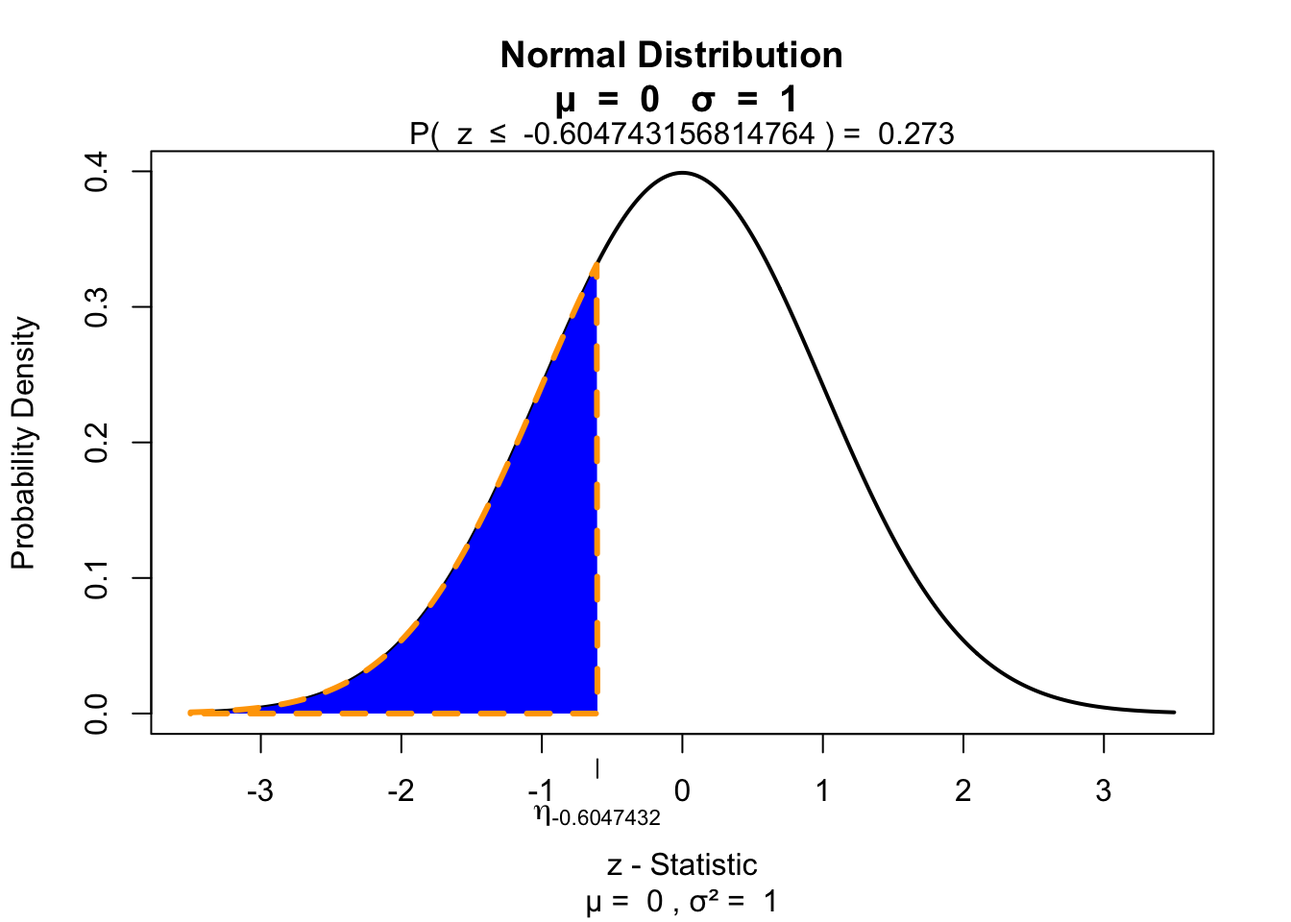
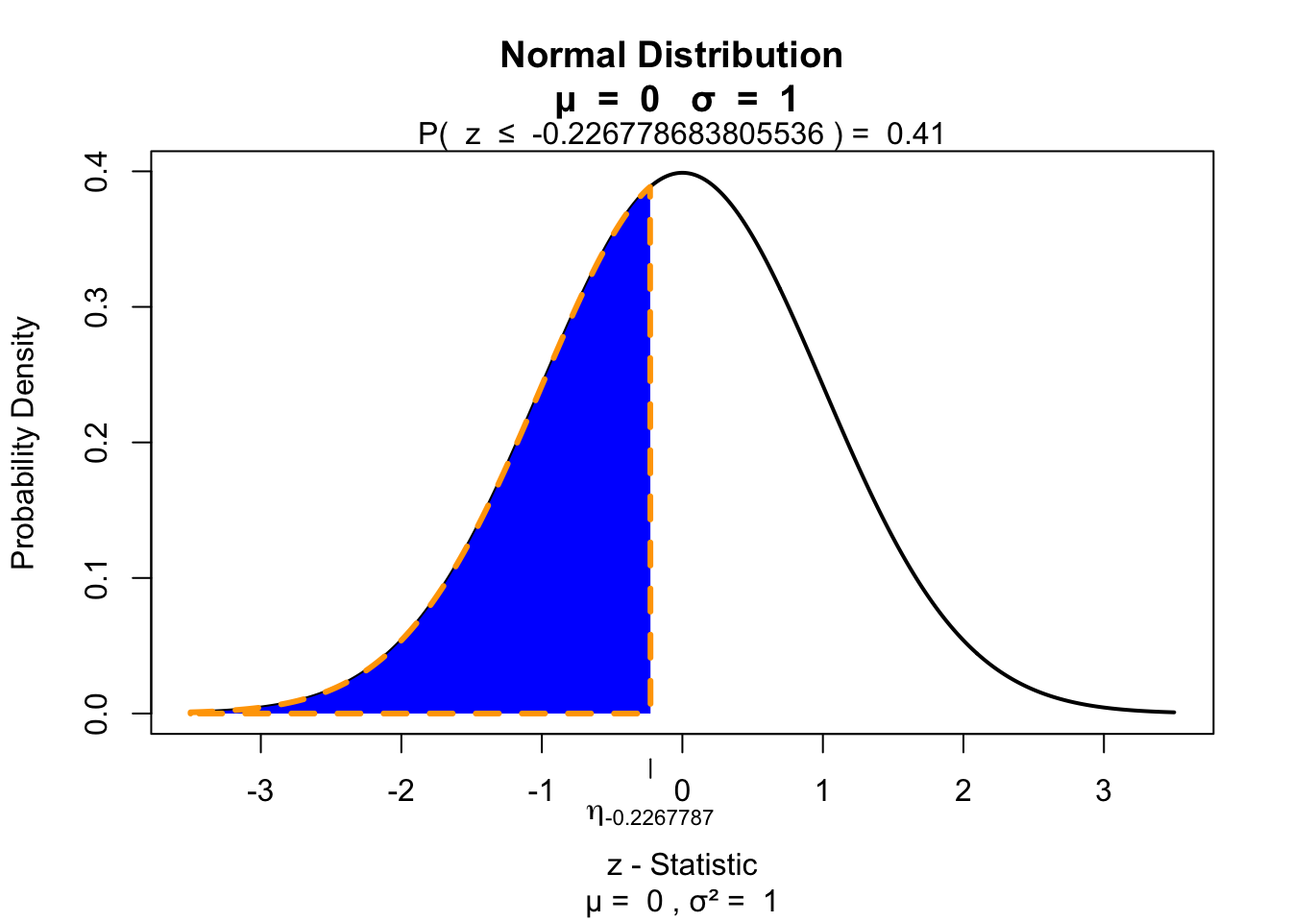
date corrected

Changed region(s): [[0.4375, 0.1875, 0.5312, 0.7812], [0.3125, 0.125, 0.75, 0.1562], [0.4062, 0.875, 0.5625, 0.9062]]

diff --git a/courses/2020-2021_SSR/non_parametric_tests/non_parametric_tests_reveal.html b/courses/2020-2021_SSR/non_parametric_tests/non_parametric_tests_reveal.html
@@ -580,7 +580,7 @@ document.getElementsByTagName('head')[0].appendChild(style);
 <section>
     <h1 class="title">Non-parametric tests</h1>
     <h2 class="author">Klinkenberg</h2>
-    <h3 class="date">3 oct 2019</h3>
+    <h3 class="date">3 oct 2020</h3>
 </section>
 
 <section id="inhoud" class="slide level2">
@@ -699,8 +699,8 @@ background: linear-gradient(top, #FFA500 40%, #FFA500 80%) no-repeat !important;
 <span id="cb6-13"><a href="#cb6-13"></a>data<span class="op">$</span>R &lt;-<span class="st"> </span><span class="kw">rank</span>(data<span class="op">$</span>depres)</span></code></pre></div>
 </section><section id="example" class="slide level2">
 <h2>Example</h2>
-<div id="htmlwidget-6f3703a33933e4c06ee4" style="width:100%;height:auto;" class="datatables html-widget"></div>
-<script type="application/json" data-for="htmlwidget-6f3703a33933e4c06ee4">{"x":{"filter":"none","data":[["1","2","3","4","5","6","7","8","9","10","11","12","13","14","15","16","17","18","19","20"],["Ecstasy","Ecstasy","Ecstasy","Ecstasy","Ecstasy","Ecstasy","Ecstasy","Ecstasy","Ecstasy","Ecstasy","Alcohol","Alcohol","Alcohol","Alcohol","Alcohol","Alcohol","Alcohol","Alcohol","Alcohol","Alcohol"],[27,29,27,27,30,26,29,31,28,28,28,26,29,29,27,28,32,27,26,29],[6,15,6,6,18,2,15,19,10.5,10.5,10.5,2,15,15,6,10.5,20,6,2,15]],"container":"<table class=\"display\">\n  <thead>\n    <tr>\n      <th> <\/th>\n      <th>factor<\/th>\n      <th>depres<\/th>\n      <th>R<\/th>\n    <\/tr>\n  <\/thead>\n<\/table>","options":{"searching":false,"scrollY":415,"paging":false,"info":false,"columnDefs":[{"className":"dt-right","targets":[2,3]},{"orderable":false,"targets":0}],"order":[],"autoWidth":false,"orderClasses":false}},"evals":[],"jsHooks":[]}</script>
+<div id="htmlwidget-239354e533d7a12e53f1" style="width:100%;height:auto;" class="datatables html-widget"></div>
+<script type="application/json" data-for="htmlwidget-239354e533d7a12e53f1">{"x":{"filter":"none","data":[["1","2","3","4","5","6","7","8","9","10","11","12","13","14","15","16","17","18","19","20"],["Ecstasy","Ecstasy","Ecstasy","Ecstasy","Ecstasy","Ecstasy","Ecstasy","Ecstasy","Ecstasy","Ecstasy","Alcohol","Alcohol","Alcohol","Alcohol","Alcohol","Alcohol","Alcohol","Alcohol","Alcohol","Alcohol"],[27,29,27,27,30,26,29,31,28,28,28,26,29,29,27,28,32,27,26,29],[6,15,6,6,18,2,15,19,10.5,10.5,10.5,2,15,15,6,10.5,20,6,2,15]],"container":"<table class=\"display\">\n  <thead>\n    <tr>\n      <th> <\/th>\n      <th>factor<\/th>\n      <th>depres<\/th>\n      <th>R<\/th>\n    <\/tr>\n  <\/thead>\n<\/table>","options":{"searching":false,"scrollY":415,"paging":false,"info":false,"columnDefs":[{"className":"dt-right","targets":[2,3]},{"orderable":false,"targets":0}],"order":[],"autoWidth":false,"orderClasses":false}},"evals":[],"jsHooks":[]}</script>
 </section><section id="calculate-the-sum-of-ranks-per-group" class="slide level2 subsection">
 <h2>Calculate the sum of ranks per group</h2>
 <div class="sourceCode" id="cb7"><pre class="sourceCode r"><code class="sourceCode r"><span id="cb7-1"><a href="#cb7-1"></a>R &lt;-<span class="st"> </span><span class="kw">aggregate</span>(R <span class="op">~</span><span class="st"> </span>factor, data, sum)</span>
@@ -806,8 +806,8 @@ background: linear-gradient(top, #FFA500 40%, #FFA500 80%) no-repeat !important;
 <span id="cb29-15"><a href="#cb29-15"></a>data &lt;-<span class="st"> </span><span class="kw">data.frame</span>(Ecstasy, Alcohol)</span></code></pre></div>
 </section><section id="example-1" class="slide level2">
 <h2>Example</h2>
-<div id="htmlwidget-5554785aca792b730a85" style="width:100%;height:auto;" class="datatables html-widget"></div>
-<script type="application/json" data-for="htmlwidget-5554785aca792b730a85">{"x":{"filter":"none","data":[["1","2","3","4","5","6","7","8","9","10"],[29,25,28,27,29,28,28,29,29,28],[28,28,27,27,28,28,26,27,30,28]],"container":"<table class=\"display\">\n  <thead>\n    <tr>\n      <th> <\/th>\n      <th>Ecstasy<\/th>\n      <th>Alcohol<\/th>\n    <\/tr>\n  <\/thead>\n<\/table>","options":{"iDisplayLength":7,"searching":false,"scrollY":415,"paging":false,"info":false,"columnDefs":[{"className":"dt-right","targets":[1,2]},{"orderable":false,"targets":0}],"order":[],"autoWidth":false,"orderClasses":false}},"evals":[],"jsHooks":[]}</script>
+<div id="htmlwidget-425321f9794e9da98c7b" style="width:100%;height:auto;" class="datatables html-widget"></div>
+<script type="application/json" data-for="htmlwidget-425321f9794e9da98c7b">{"x":{"filter":"none","data":[["1","2","3","4","5","6","7","8","9","10"],[29,25,28,27,29,28,28,29,29,28],[28,28,27,27,28,28,26,27,30,28]],"container":"<table class=\"display\">\n  <thead>\n    <tr>\n      <th> <\/th>\n      <th>Ecstasy<\/th>\n      <th>Alcohol<\/th>\n    <\/tr>\n  <\/thead>\n<\/table>","options":{"iDisplayLength":7,"searching":false,"scrollY":415,"paging":false,"info":false,"columnDefs":[{"className":"dt-right","targets":[1,2]},{"orderable":false,"targets":0}],"order":[],"autoWidth":false,"orderClasses":false}},"evals":[],"jsHooks":[]}</script>
 </section><section id="calculate-t" class="slide level2 smaller subsection">
 <h2>Calculate T</h2>
 <!-- Dit gaat niet goed Ranking moet zonder de ties en absoluut. 
@@ -843,8 +843,8 @@ data[which(data$difference != 0),'rank'] <- rank(data[which(data$difference != 0
 <span id="cb30-19"><a href="#cb30-19"></a>data<span class="op">$</span>rank_neg =<span class="st"> </span><span class="kw">with</span>(data, <span class="kw">ifelse</span>(sign <span class="op">==</span><span class="st"> </span><span class="dv">-1</span>, rank, <span class="dv">0</span>   ))</span></code></pre></div>
 </section><section id="the-data" class="slide level2 smaller">
 <h2>The data</h2>
-<div id="htmlwidget-2f633885d3e735e0670a" style="width:100%;height:auto;" class="datatables html-widget"></div>
-<script type="application/json" data-for="htmlwidget-2f633885d3e735e0670a">{"x":{"filter":"none","data":[["1","2","3","4","5","6","7","8","9","10"],[29,25,28,27,29,28,28,29,29,28],[28,28,27,27,28,28,26,27,30,28],[1,-3,1,0,1,0,2,2,-1,0],[1,3,1,0,1,0,2,2,1,0],[2.5,7,2.5,null,2.5,null,5.5,5.5,2.5,null],[1,-1,1,0,1,0,1,1,-1,0],[2.5,0,2.5,0,2.5,0,5.5,5.5,0,0],[0,7,0,0,0,0,0,0,2.5,0]],"container":"<table class=\"display\">\n  <thead>\n    <tr>\n      <th> <\/th>\n      <th>Ecstasy<\/th>\n      <th>Alcohol<\/th>\n      <th>difference<\/th>\n      <th>abs.difference<\/th>\n      <th>rank<\/th>\n      <th>sign<\/th>\n      <th>rank_pos<\/th>\n      <th>rank_neg<\/th>\n    <\/tr>\n  <\/thead>\n<\/table>","options":{"iDisplayLength":7,"searching":false,"scrollY":415,"paging":false,"info":false,"columnDefs":[{"className":"dt-right","targets":[1,2,3,4,5,6,7,8]},{"orderable":false,"targets":0}],"order":[],"autoWidth":false,"orderClasses":false}},"evals":[],"jsHooks":[]}</script>
+<div id="htmlwidget-cf6aa36f1d6e5c5b0cf2" style="width:100%;height:auto;" class="datatables html-widget"></div>
+<script type="application/json" data-for="htmlwidget-cf6aa36f1d6e5c5b0cf2">{"x":{"filter":"none","data":[["1","2","3","4","5","6","7","8","9","10"],[29,25,28,27,29,28,28,29,29,28],[28,28,27,27,28,28,26,27,30,28],[1,-3,1,0,1,0,2,2,-1,0],[1,3,1,0,1,0,2,2,1,0],[2.5,7,2.5,null,2.5,null,5.5,5.5,2.5,null],[1,-1,1,0,1,0,1,1,-1,0],[2.5,0,2.5,0,2.5,0,5.5,5.5,0,0],[0,7,0,0,0,0,0,0,2.5,0]],"container":"<table class=\"display\">\n  <thead>\n    <tr>\n      <th> <\/th>\n      <th>Ecstasy<\/th>\n      <th>Alcohol<\/th>\n      <th>difference<\/th>\n      <th>abs.difference<\/th>\n      <th>rank<\/th>\n      <th>sign<\/th>\n      <th>rank_pos<\/th>\n      <th>rank_neg<\/th>\n    <\/tr>\n  <\/thead>\n<\/table>","options":{"iDisplayLength":7,"searching":false,"scrollY":415,"paging":false,"info":false,"columnDefs":[{"className":"dt-right","targets":[1,2,3,4,5,6,7,8]},{"orderable":false,"targets":0}],"order":[],"autoWidth":false,"orderClasses":false}},"evals":[],"jsHooks":[]}</script>
 </section><section id="calculate-t_" class="slide level2">
 <h2>Calculate <span class="math inline">\(T_+\)</span></h2>
 <div class="sourceCode" id="cb31"><pre class="sourceCode r"><code class="sourceCode r"><span id="cb31-1"><a href="#cb31-1"></a><span class="co"># Calculate the sum of the positive ranks</span></span>
@@ -912,8 +912,8 @@ data[which(data$difference != 0),'rank'] <- rank(data[which(data$difference != 0
 <span id="cb44-2"><a href="#cb44-2"></a>data<span class="op">$</span>ranks =<span class="st"> </span><span class="kw">rank</span>(data<span class="op">$</span>depres)</span></code></pre></div>
 </section><section id="the-data-1" class="slide level2">
 <h2>The data</h2>
-<div id="htmlwidget-ca35d45450ff08359172" style="width:100%;height:auto;" class="datatables html-widget"></div>
-<script type="application/json" data-for="htmlwidget-ca35d45450ff08359172">{"x":{"filter":"none","data":[["1","2","3","4","5","6","7","8","9","10","11","12","13","14","15","16","17","18","19","20","21","22","23","24","25","26","27","28","29","30"],["ecstasy","ecstasy","ecstasy","ecstasy","ecstasy","ecstasy","ecstasy","ecstasy","ecstasy","ecstasy","alcohol","alcohol","alcohol","alcohol","alcohol","alcohol","alcohol","alcohol","alcohol","alcohol","control","control","control","control","control","control","control","control","control","control"],[22,22,24,25,21,24,21,23,21,23,27,23,24,24,21,26,23,24,23,24,23,22,21,22,22,25,22,22,22,23],[9.5,9.5,23.5,27.5,3,23.5,3,17,3,17,30,17,23.5,23.5,3,29,17,23.5,17,23.5,17,9.5,3,9.5,9.5,27.5,9.5,9.5,9.5,17]],"container":"<table class=\"display\">\n  <thead>\n    <tr>\n      <th> <\/th>\n      <th>factor<\/th>\n      <th>depres<\/th>\n      <th>ranks<\/th>\n    <\/tr>\n  <\/thead>\n<\/table>","options":{"iDisplayLength":7,"searching":false,"scrollY":415,"paging":false,"info":false,"columnDefs":[{"className":"dt-right","targets":[2,3]},{"orderable":false,"targets":0}],"order":[],"autoWidth":false,"orderClasses":false}},"evals":[],"jsHooks":[]}</script>
+<div id="htmlwidget-2f06513c00f9c344bd6d" style="width:100%;height:auto;" class="datatables html-widget"></div>
+<script type="application/json" data-for="htmlwidget-2f06513c00f9c344bd6d">{"x":{"filter":"none","data":[["1","2","3","4","5","6","7","8","9","10","11","12","13","14","15","16","17","18","19","20","21","22","23","24","25","26","27","28","29","30"],["ecstasy","ecstasy","ecstasy","ecstasy","ecstasy","ecstasy","ecstasy","ecstasy","ecstasy","ecstasy","alcohol","alcohol","alcohol","alcohol","alcohol","alcohol","alcohol","alcohol","alcohol","alcohol","control","control","control","control","control","control","control","control","control","control"],[22,22,24,25,21,24,21,23,21,23,27,23,24,24,21,26,23,24,23,24,23,22,21,22,22,25,22,22,22,23],[9.5,9.5,23.5,27.5,3,23.5,3,17,3,17,30,17,23.5,23.5,3,29,17,23.5,17,23.5,17,9.5,3,9.5,9.5,27.5,9.5,9.5,9.5,17]],"container":"<table class=\"display\">\n  <thead>\n    <tr>\n      <th> <\/th>\n      <th>factor<\/th>\n      <th>depres<\/th>\n      <th>ranks<\/th>\n    <\/tr>\n  <\/thead>\n<\/table>","options":{"iDisplayLength":7,"searching":false,"scrollY":415,"paging":false,"info":false,"columnDefs":[{"className":"dt-right","targets":[2,3]},{"orderable":false,"targets":0}],"order":[],"autoWidth":false,"orderClasses":false}},"evals":[],"jsHooks":[]}</script>
 </section><section id="calculate-h" class="slide level2 subsection">
 <h2>Calculate H</h2>
 <p><span class="math display">\[H = \frac{12}{N(N+1)} \sum_{i=1}^k \frac{R_i^2}{n_i} - 3(N+1)\]</span></p>
@@ -983,8 +983,8 @@ data[which(data$difference != 0),'rank'] <- rank(data[which(data$difference != 0
 <span id="cb54-5"><a href="#cb54-5"></a>data &lt;-<span class="st"> </span><span class="kw">data.frame</span>(ecstasy, alcohol, control)</span></code></pre></div>
 </section><section id="the-data-2" class="slide level2">
 <h2>The data</h2>
-<div id="htmlwidget-1eeb47d605788ab2f9e4" style="width:100%;height:auto;" class="datatables html-widget"></div>
-<script type="application/json" data-for="htmlwidget-1eeb47d605788ab2f9e4">{"x":{"filter":"none","data":[["1","2","3","4","5","6","7","8","9","10"],[23,24,27,27,25,21,22,21,23,24],[22,24,24,21,25,22,22,25,24,24],[24,27,25,21,21,23,24,21,23,21]],"container":"<table class=\"display\">\n  <thead>\n    <tr>\n      <th> <\/th>\n      <th>ecstasy<\/th>\n      <th>alcohol<\/th>\n      <th>control<\/th>\n    <\/tr>\n  <\/thead>\n<\/table>","options":{"iDisplayLength":7,"searching":false,"scrollY":415,"paging":false,"info":false,"columnDefs":[{"className":"dt-right","targets":[1,2,3]},{"orderable":false,"targets":0}],"order":[],"autoWidth":false,"orderClasses":false}},"evals":[],"jsHooks":[]}</script>
+<div id="htmlwidget-752361be19e012d0728c" style="width:100%;height:auto;" class="datatables html-widget"></div>
+<script type="application/json" data-for="htmlwidget-752361be19e012d0728c">{"x":{"filter":"none","data":[["1","2","3","4","5","6","7","8","9","10"],[23,24,27,27,25,21,22,21,23,24],[22,24,24,21,25,22,22,25,24,24],[24,27,25,21,21,23,24,21,23,21]],"container":"<table class=\"display\">\n  <thead>\n    <tr>\n      <th> <\/th>\n      <th>ecstasy<\/th>\n      <th>alcohol<\/th>\n      <th>control<\/th>\n    <\/tr>\n  <\/thead>\n<\/table>","options":{"iDisplayLength":7,"searching":false,"scrollY":415,"paging":false,"info":false,"columnDefs":[{"className":"dt-right","targets":[1,2,3]},{"orderable":false,"targets":0}],"order":[],"autoWidth":false,"orderClasses":false}},"evals":[],"jsHooks":[]}</script>
 </section><section id="assign-ranks-1" class="slide level2">
 <h2>Assign ranks</h2>
 <p>Rank each row.</p>
@@ -992,8 +992,8 @@ data[which(data$difference != 0),'rank'] <- rank(data[which(data$difference != 0
 <span id="cb55-2"><a href="#cb55-2"></a>ranks =<span class="st"> </span><span class="kw">t</span>(<span class="kw">apply</span>(data, <span class="dv">1</span>, rank))</span></code></pre></div>
 </section><section id="the-data-with-ranks" class="slide level2">
 <h2>The data with ranks</h2>
-<div id="htmlwidget-180126f91fe9273a55a2" style="width:100%;height:auto;" class="datatables html-widget"></div>
-<script type="application/json" data-for="htmlwidget-180126f91fe9273a55a2">{"x":{"filter":"none","data":[[2,1.5,3,3,2.5,1,1.5,1.5,1.5,2.5],[1,1.5,1,1.5,2.5,2,1.5,3,3,2.5],[3,3,2,1.5,1,3,3,1.5,1.5,1]],"container":"<table class=\"display\">\n  <thead>\n    <tr>\n      <th>ecstasy<\/th>\n      <th>alcohol<\/th>\n      <th>control<\/th>\n    <\/tr>\n  <\/thead>\n<\/table>","options":{"iDisplayLength":7,"searching":false,"scrollY":415,"paging":false,"info":false,"columnDefs":[{"className":"dt-right","targets":[0,1,2]}],"order":[],"autoWidth":false,"orderClasses":false}},"evals":[],"jsHooks":[]}</script>
+<div id="htmlwidget-31a6e34655485fe73360" style="width:100%;height:auto;" class="datatables html-widget"></div>
+<script type="application/json" data-for="htmlwidget-31a6e34655485fe73360">{"x":{"filter":"none","data":[[2,1.5,3,3,2.5,1,1.5,1.5,1.5,2.5],[1,1.5,1,1.5,2.5,2,1.5,3,3,2.5],[3,3,2,1.5,1,3,3,1.5,1.5,1]],"container":"<table class=\"display\">\n  <thead>\n    <tr>\n      <th>ecstasy<\/th>\n      <th>alcohol<\/th>\n      <th>control<\/th>\n    <\/tr>\n  <\/thead>\n<\/table>","options":{"iDisplayLength":7,"searching":false,"scrollY":415,"paging":false,"info":false,"columnDefs":[{"className":"dt-right","targets":[0,1,2]}],"order":[],"autoWidth":false,"orderClasses":false}},"evals":[],"jsHooks":[]}</script>
 </section><section id="calculate-f_r" class="slide level2 subsection">
 <h2>Calculate <span class="math inline">\(F_r\)</span></h2>
 <p><span class="math display">\[F_r = \left[ \frac{12}{Nk(k+1)} \sum_{i=1}^k R_i^2 \right] - 3N(k+1)\]</span></p>

diff --git a/courses/2020-2021_SSR/non_parametric_tests/non_parametric_tests_handout.html b/courses/2020-2021_SSR/non_parametric_tests/non_parametric_tests_handout.html
@@ -278,7 +278,7 @@ div.tocify {
 
 <h1 class="title toc-ignore">Non-parametric tests</h1>
 <h4 class="author">Klinkenberg</h4>
-<h4 class="date">3 oct 2019</h4>
+<h4 class="date">3 oct 2020</h4>
 
 </div>
 
@@ -409,23 +409,23 @@ data$R &lt;- rank(data$depres)</code></pre>
 </div>
 <div id="example" class="section level2">
 <h2>Example</h2>
-<div id="htmlwidget-8005903bccb5d981dfae" style="width:100%;height:auto;" class="datatables html-widget"></div>
-<script type="application/json" data-for="htmlwidget-8005903bccb5d981dfae">{"x":{"filter":"none","data":[["1","2","3","4","5","6","7","8","9","10","11","12","13","14","15","16","17","18","19","20"],["Ecstasy","Ecstasy","Ecstasy","Ecstasy","Ecstasy","Ecstasy","Ecstasy","Ecstasy","Ecstasy","Ecstasy","Alcohol","Alcohol","Alcohol","Alcohol","Alcohol","Alcohol","Alcohol","Alcohol","Alcohol","Alcohol"],[27,31,29,27,24,30,28,28,30,29,29,30,29,28,25,29,28,28,25,27],[5,20,14,5,1,18,9,9,18,14,14,18,14,9,2.5,14,9,9,2.5,5]],"container":"<table class=\"display\">\n  <thead>\n    <tr>\n      <th> <\/th>\n      <th>factor<\/th>\n      <th>depres<\/th>\n      <th>R<\/th>\n    <\/tr>\n  <\/thead>\n<\/table>","options":{"searching":false,"scrollY":415,"paging":false,"info":false,"columnDefs":[{"className":"dt-right","targets":[2,3]},{"orderable":false,"targets":0}],"order":[],"autoWidth":false,"orderClasses":false}},"evals":[],"jsHooks":[]}</script>
+<div id="htmlwidget-0accf281e7c58e36b528" style="width:100%;height:auto;" class="datatables html-widget"></div>
+<script type="application/json" data-for="htmlwidget-0accf281e7c58e36b528">{"x":{"filter":"none","data":[["1","2","3","4","5","6","7","8","9","10","11","12","13","14","15","16","17","18","19","20"],["Ecstasy","Ecstasy","Ecstasy","Ecstasy","Ecstasy","Ecstasy","Ecstasy","Ecstasy","Ecstasy","Ecstasy","Alcohol","Alcohol","Alcohol","Alcohol","Alcohol","Alcohol","Alcohol","Alcohol","Alcohol","Alcohol"],[27,29,27,27,30,26,29,31,28,28,28,26,29,29,27,28,32,27,26,29],[6,15,6,6,18,2,15,19,10.5,10.5,10.5,2,15,15,6,10.5,20,6,2,15]],"container":"<table class=\"display\">\n  <thead>\n    <tr>\n      <th> <\/th>\n      <th>factor<\/th>\n      <th>depres<\/th>\n      <th>R<\/th>\n    <\/tr>\n  <\/thead>\n<\/table>","options":{"searching":false,"scrollY":415,"paging":false,"info":false,"columnDefs":[{"className":"dt-right","targets":[2,3]},{"orderable":false,"targets":0}],"order":[],"autoWidth":false,"orderClasses":false}},"evals":[],"jsHooks":[]}</script>
 </div>
 <div id="calculate-the-sum-of-ranks-per-group" class="section level2 subsection">
 <h2>Calculate the sum of ranks per group</h2>
 <pre class="r"><code>R &lt;- aggregate(R ~ factor, data, sum)
 R</code></pre>
 <pre><code>##    factor   R
-## 1 Alcohol  97
-## 2 Ecstasy 113</code></pre>
+## 1 Alcohol 102
+## 2 Ecstasy 108</code></pre>
 </div>
 <div id="so-w-is-the-lowest" class="section level2">
 <h2>So W is the lowest</h2>
 <p><span class="math display">\[W=min\left(\sum{R_1},\sum{R_2}\right)\]</span></p>
 <pre class="r"><code>W &lt;- min(R$R)
 W</code></pre>
-<pre><code>## [1] 97</code></pre>
+<pre><code>## [1] 102</code></pre>
 </div>
 <div id="standardise-w" class="section level2">
 <h2>Standardise W</h2>
@@ -461,7 +461,7 @@ W.se</code></pre>
 <p><span class="math display">\[\frac{X - \bar{X}}{{SE}_X} \text{or} \frac{b - \mu_{b}}{{SE}_b} \]</span></p>
 <pre class="r"><code>z = (W - W.mean) / W.se
 z</code></pre>
-<pre><code>## [1] -0.6047432</code></pre>
+<pre><code>## [1] -0.2267787</code></pre>
 </div>
 <div id="test-for-significance-1-sided" class="section level2">
 <h2>Test for significance 1 sided</h2>
@@ -484,14 +484,14 @@ visualize.norm(z, section=&quot;lower&quot;)</code></pre>
 <pre class="r"><code>N = sum(n$R)
 r = z / sqrt(N)
 r</code></pre>
-<pre><code>## [1] -0.1352247</code></pre>
+<pre><code>## [1] -0.05070926</code></pre>
 </div>
 <div id="mannwhitney-test" class="section level2 section">
 <h2>Mann–Whitney test</h2>
 <p><span class="math display">\[U = n_1 n_2 + \frac{n_1 (n_1 + 1)}{2} - R_1\]</span></p>
 <pre class="r"><code>U = (n.1*n.2)+(n.1*(n.1+1))/2-R$R[1]
 U</code></pre>
-<pre><code>## [1] 58</code></pre>
+<pre><code>## [1] 53</code></pre>
 </div>
 <div id="baru-and-se_u-for-non-tied-ranks" class="section level2 subsection">
 <h2><span class="math inline">\(\bar{U}\)</span> and <span class="math inline">\({SE}_U\)</span> for non tied ranks</h2>
@@ -531,8 +531,8 @@ data &lt;- data.frame(Ecstasy, Alcohol)</code></pre>
 </div>
 <div id="example-1" class="section level2">
 <h2>Example</h2>
-<div id="htmlwidget-632b04d6a572535b9b8b" style="width:100%;height:auto;" class="datatables html-widget"></div>
-<script type="application/json" data-for="htmlwidget-632b04d6a572535b9b8b">{"x":{"filter":"none","data":[["1","2","3","4","5","6","7","8","9","10"],[29,25,28,27,29,28,28,29,29,28],[28,28,27,27,28,28,26,27,30,28]],"container":"<table class=\"display\">\n  <thead>\n    <tr>\n      <th> <\/th>\n      <th>Ecstasy<\/th>\n      <th>Alcohol<\/th>\n    <\/tr>\n  <\/thead>\n<\/table>","options":{"iDisplayLength":7,"searching":false,"scrollY":415,"paging":false,"info":false,"columnDefs":[{"className":"dt-right","targets":[1,2]},{"orderable":false,"targets":0}],"order":[],"autoWidth":false,"orderClasses":false}},"evals":[],"jsHooks":[]}</script>
+<div id="htmlwidget-3c5b3bfd400188b044da" style="width:100%;height:auto;" class="datatables html-widget"></div>
+<script type="application/json" data-for="htmlwidget-3c5b3bfd400188b044da">{"x":{"filter":"none","data":[["1","2","3","4","5","6","7","8","9","10"],[29,25,28,27,29,28,28,29,29,28],[28,28,27,27,28,28,26,27,30,28]],"container":"<table class=\"display\">\n  <thead>\n    <tr>\n      <th> <\/th>\n      <th>Ecstasy<\/th>\n      <th>Alcohol<\/th>\n    <\/tr>\n  <\/thead>\n<\/table>","options":{"iDisplayLength":7,"searching":false,"scrollY":415,"paging":false,"info":false,"columnDefs":[{"className":"dt-right","targets":[1,2]},{"orderable":false,"targets":0}],"order":[],"autoWidth":false,"orderClasses":false}},"evals":[],"jsHooks":[]}</script>
 </div>
 <div id="calculate-t" class="section level2 smaller subsection">
 <h2>Calculate T</h2>
@@ -570,8 +570,8 @@ data$rank_neg = with(data, ifelse(sign == -1, rank, 0   ))</code></pre>
 </div>
 <div id="the-data" class="section level2 smaller">
 <h2>The data</h2>
-<div id="htmlwidget-62032e7fed994c82ed0e" style="width:100%;height:auto;" class="datatables html-widget"></div>
-<script type="application/json" data-for="htmlwidget-62032e7fed994c82ed0e">{"x":{"filter":"none","data":[["1","2","3","4","5","6","7","8","9","10"],[29,25,28,27,29,28,28,29,29,28],[28,28,27,27,28,28,26,27,30,28],[1,-3,1,0,1,0,2,2,-1,0],[1,3,1,0,1,0,2,2,1,0],[2.5,7,2.5,null,2.5,null,5.5,5.5,2.5,null],[1,-1,1,0,1,0,1,1,-1,0],[2.5,0,2.5,0,2.5,0,5.5,5.5,0,0],[0,7,0,0,0,0,0,0,2.5,0]],"container":"<table class=\"display\">\n  <thead>\n    <tr>\n      <th> <\/th>\n      <th>Ecstasy<\/th>\n      <th>Alcohol<\/th>\n      <th>difference<\/th>\n      <th>abs.difference<\/th>\n      <th>rank<\/th>\n      <th>sign<\/th>\n      <th>rank_pos<\/th>\n      <th>rank_neg<\/th>\n    <\/tr>\n  <\/thead>\n<\/table>","options":{"iDisplayLength":7,"searching":false,"scrollY":415,"paging":false,"info":false,"columnDefs":[{"className":"dt-right","targets":[1,2,3,4,5,6,7,8]},{"orderable":false,"targets":0}],"order":[],"autoWidth":false,"orderClasses":false}},"evals":[],"jsHooks":[]}</script>
+<div id="htmlwidget-69dc41641ef4cd58d4d6" style="width:100%;height:auto;" class="datatables html-widget"></div>
+<script type="application/json" data-for="htmlwidget-69dc41641ef4cd58d4d6">{"x":{"filter":"none","data":[["1","2","3","4","5","6","7","8","9","10"],[29,25,28,27,29,28,28,29,29,28],[28,28,27,27,28,28,26,27,30,28],[1,-3,1,0,1,0,2,2,-1,0],[1,3,1,0,1,0,2,2,1,0],[2.5,7,2.5,null,2.5,null,5.5,5.5,2.5,null],[1,-1,1,0,1,0,1,1,-1,0],[2.5,0,2.5,0,2.5,0,5.5,5.5,0,0],[0,7,0,0,0,0,0,0,2.5,0]],"container":"<table class=\"display\">\n  <thead>\n    <tr>\n      <th> <\/th>\n      <th>Ecstasy<\/th>\n      <th>Alcohol<\/th>\n      <th>difference<\/th>\n      <th>abs.difference<\/th>\n      <th>rank<\/th>\n      <th>sign<\/th>\n      <th>rank_pos<\/th>\n      <th>rank_neg<\/th>\n    <\/tr>\n  <\/thead>\n<\/table>","options":{"iDisplayLength":7,"searching":false,"scrollY":415,"paging":false,"info":false,"columnDefs":[{"className":"dt-right","targets":[1,2,3,4,5,6,7,8]},{"orderable":false,"targets":0}],"order":[],"autoWidth":false,"orderClasses":false}},"evals":[],"jsHooks":[]}</script>
 </div>
 <div id="calculate-t_" class="section level2">
 <h2>Calculate <span class="math inline">\(T_+\)</span></h2>
@@ -650,8 +650,8 @@ data$ranks = rank(data$depres)</code></pre>
 </div>
 <div id="the-data-1" class="section level2">
 <h2>The data</h2>
-<div id="htmlwidget-7ce1a5b2fcef7383bf99" style="width:100%;height:auto;" class="datatables html-widget"></div>
-<script type="application/json" data-for="htmlwidget-7ce1a5b2fcef7383bf99">{"x":{"filter":"none","data":[["1","2","3","4","5","6","7","8","9","10","11","12","13","14","15","16","17","18","19","20","21","22","23","24","25","26","27","28","29","30"],["ecstasy","ecstasy","ecstasy","ecstasy","ecstasy","ecstasy","ecstasy","ecstasy","ecstasy","ecstasy","alcohol","alcohol","alcohol","alcohol","alcohol","alcohol","alcohol","alcohol","alcohol","alcohol","control","control","control","control","control","control","control","control","control","control"],[22,22,24,25,21,24,21,23,21,23,27,23,24,24,21,26,23,24,23,24,23,22,21,22,22,25,22,22,22,23],[9.5,9.5,23.5,27.5,3,23.5,3,17,3,17,30,17,23.5,23.5,3,29,17,23.5,17,23.5,17,9.5,3,9.5,9.5,27.5,9.5,9.5,9.5,17]],"container":"<table class=\"display\">\n  <thead>\n    <tr>\n      <th> <\/th>\n      <th>factor<\/th>\n      <th>depres<\/th>\n      <th>ranks<\/th>\n    <\/tr>\n  <\/thead>\n<\/table>","options":{"iDisplayLength":7,"searching":false,"scrollY":415,"paging":false,"info":false,"columnDefs":[{"className":"dt-right","targets":[2,3]},{"orderable":false,"targets":0}],"order":[],"autoWidth":false,"orderClasses":false}},"evals":[],"jsHooks":[]}</script>
+<div id="htmlwidget-c5af7bd4c4be9810bd20" style="width:100%;height:auto;" class="datatables html-widget"></div>
+<script type="application/json" data-for="htmlwidget-c5af7bd4c4be9810bd20">{"x":{"filter":"none","data":[["1","2","3","4","5","6","7","8","9","10","11","12","13","14","15","16","17","18","19","20","21","22","23","24","25","26","27","28","29","30"],["ecstasy","ecstasy","ecstasy","ecstasy","ecstasy","ecstasy","ecstasy","ecstasy","ecstasy","ecstasy","alcohol","alcohol","alcohol","alcohol","alcohol","alcohol","alcohol","alcohol","alcohol","alcohol","control","control","control","control","control","control","control","control","control","control"],[22,22,24,25,21,24,21,23,21,23,27,23,24,24,21,26,23,24,23,24,23,22,21,22,22,25,22,22,22,23],[9.5,9.5,23.5,27.5,3,23.5,3,17,3,17,30,17,23.5,23.5,3,29,17,23.5,17,23.5,17,9.5,3,9.5,9.5,27.5,9.5,9.5,9.5,17]],"container":"<table class=\"display\">\n  <thead>\n    <tr>\n      <th> <\/th>\n      <th>factor<\/th>\n      <th>depres<\/th>\n      <th>ranks<\/th>\n    <\/tr>\n  <\/thead>\n<\/table>","options":{"iDisplayLength":7,"searching":false,"scrollY":415,"paging":false,"info":false,"columnDefs":[{"className":"dt-right","targets":[2,3]},{"orderable":false,"targets":0}],"order":[],"autoWidth":false,"orderClasses":false}},"evals":[],"jsHooks":[]}</script>
 </div>
 <div id="calculate-h" class="section level2 subsection">
 <h2>Calculate H</h2>
@@ -731,8 +731,8 @@ data &lt;- data.frame(ecstasy, alcohol, control)</code></pre>
 </div>
 <div id="the-data-2" class="section level2">
 <h2>The data</h2>
-<div id="htmlwidget-54d42d36cff9e47ed714" style="width:100%;height:auto;" class="datatables html-widget"></div>
-<script type="application/json" data-for="htmlwidget-54d42d36cff9e47ed714">{"x":{"filter":"none","data":[["1","2","3","4","5","6","7","8","9","10"],[23,24,27,27,25,21,22,21,23,24],[22,24,24,21,25,22,22,25,24,24],[24,27,25,21,21,23,24,21,23,21]],"container":"<table class=\"display\">\n  <thead>\n    <tr>\n      <th> <\/th>\n      <th>ecstasy<\/th>\n      <th>alcohol<\/th>\n      <th>control<\/th>\n    <\/tr>\n  <\/thead>\n<\/table>","options":{"iDisplayLength":7,"searching":false,"scrollY":415,"paging":false,"info":false,"columnDefs":[{"className":"dt-right","targets":[1,2,3]},{"orderable":false,"targets":0}],"order":[],"autoWidth":false,"orderClasses":false}},"evals":[],"jsHooks":[]}</script>
+<div id="htmlwidget-7927d2d093bff456136f" style="width:100%;height:auto;" class="datatables html-widget"></div>
+<script type="application/json" data-for="htmlwidget-7927d2d093bff456136f">{"x":{"filter":"none","data":[["1","2","3","4","5","6","7","8","9","10"],[23,24,27,27,25,21,22,21,23,24],[22,24,24,21,25,22,22,25,24,24],[24,27,25,21,21,23,24,21,23,21]],"container":"<table class=\"display\">\n  <thead>\n    <tr>\n      <th> <\/th>\n      <th>ecstasy<\/th>\n      <th>alcohol<\/th>\n      <th>control<\/th>\n    <\/tr>\n  <\/thead>\n<\/table>","options":{"iDisplayLength":7,"searching":false,"scrollY":415,"paging":false,"info":false,"columnDefs":[{"className":"dt-right","targets":[1,2,3]},{"orderable":false,"targets":0}],"order":[],"autoWidth":false,"orderClasses":false}},"evals":[],"jsHooks":[]}</script>
 </div>
 <div id="assign-ranks-1" class="section level2">
 <h2>Assign ranks</h2>
@@ -742,8 +742,8 @@ ranks = t(apply(data, 1, rank))</code></pre>
 </div>
 <div id="the-data-with-ranks" class="section level2">
 <h2>The data with ranks</h2>
-<div id="htmlwidget-025956e3f630952e02ef" style="width:100%;height:auto;" class="datatables html-widget"></div>
-<script type="application/json" data-for="htmlwidget-025956e3f630952e02ef">{"x":{"filter":"none","data":[[2,1.5,3,3,2.5,1,1.5,1.5,1.5,2.5],[1,1.5,1,1.5,2.5,2,1.5,3,3,2.5],[3,3,2,1.5,1,3,3,1.5,1.5,1]],"container":"<table class=\"display\">\n  <thead>\n    <tr>\n      <th>ecstasy<\/th>\n      <th>alcohol<\/th>\n      <th>control<\/th>\n    <\/tr>\n  <\/thead>\n<\/table>","options":{"iDisplayLength":7,"searching":false,"scrollY":415,"paging":false,"info":false,"columnDefs":[{"className":"dt-right","targets":[0,1,2]}],"order":[],"autoWidth":false,"orderClasses":false}},"evals":[],"jsHooks":[]}</script>
+<div id="htmlwidget-b01e841a60c03cdce1b7" style="width:100%;height:auto;" class="datatables html-widget"></div>
+<script type="application/json" data-for="htmlwidget-b01e841a60c03cdce1b7">{"x":{"filter":"none","data":[[2,1.5,3,3,2.5,1,1.5,1.5,1.5,2.5],[1,1.5,1,1.5,2.5,2,1.5,3,3,2.5],[3,3,2,1.5,1,3,3,1.5,1.5,1]],"container":"<table class=\"display\">\n  <thead>\n    <tr>\n      <th>ecstasy<\/th>\n      <th>alcohol<\/th>\n      <th>control<\/th>\n    <\/tr>\n  <\/thead>\n<\/table>","options":{"iDisplayLength":7,"searching":false,"scrollY":415,"paging":false,"info":false,"columnDefs":[{"className":"dt-right","targets":[0,1,2]}],"order":[],"autoWidth":false,"orderClasses":false}},"evals":[],"jsHooks":[]}</script>
 </div>
 <div id="calculate-f_r" class="section level2 subsection">
 <h2>Calculate <span class="math inline">\(F_r\)</span></h2>

diff --git a/2020-2021_SSR.html b/2020-2021_SSR.html
@@ -309,40 +309,40 @@ $(document).ready(function () {
 </thead>
 <tbody>
 <tr class="odd">
+<td align="left">2020-10-03</td>
+<td align="left">Non-parametric tests</td>
+<td align="left"><a href="https://shklinkenberg.github.io/statistics-lectures/courses/2020-2021_SSR//non_parametric_tests/non_parametric_tests_reveal.html" target="_blank">slide</a></td>
+<td align="left"><a href="https://shklinkenberg.github.io/statistics-lectures/courses/2020-2021_SSR//non_parametric_tests/non_parametric_tests_handout.html" target="_blank">handout</a></td>
+</tr>
+<tr class="even">
 <td align="left">2020-10-02</td>
 <td align="left">ANOVA F-distribution &amp; One-way independent</td>
 <td align="left"><a href="https://shklinkenberg.github.io/statistics-lectures/courses/2020-2021_SSR//f_distribution_ANOVA_one_way_independent/f_distribution_ANOVA_one_way_independent_reveal.html" target="_blank">slide</a></td>
 <td align="left"><a href="https://shklinkenberg.github.io/statistics-lectures/courses/2020-2021_SSR//f_distribution_ANOVA_one_way_independent/f_distribution_ANOVA_one_way_independent_handout.html" target="_blank">handout</a></td>
 </tr>
-<tr class="even">
+<tr class="odd">
 <td align="left">2020-09-17</td>
 <td align="left">Paired and Independent t-test</td>
 <td align="left"><a href="https://shklinkenberg.github.io/statistics-lectures/courses/2020-2021_SSR//paired_and_independent_t_test/paired_and_independent_t_test_reveal.html" target="_blank">slide</a></td>
 <td align="left"><a href="https://shklinkenberg.github.io/statistics-lectures/courses/2020-2021_SSR//paired_and_independent_t_test/paired_and_independent_t_test_handout.html" target="_blank">handout</a></td>
 </tr>
-<tr class="odd">
+<tr class="even">
 <td align="left">2020-09-15</td>
 <td align="left">T-distribution and the One-sample t-test</td>
 <td align="left"><a href="https://shklinkenberg.github.io/statistics-lectures/courses/2020-2021_SSR//t_distribution_and_one_sample_t_test/t_distribution_and_one_sample_t_test_reveal.html" target="_blank">slide</a></td>
 <td align="left"><a href="https://shklinkenberg.github.io/statistics-lectures/courses/2020-2021_SSR//t_distribution_and_one_sample_t_test/t_distribution_and_one_sample_t_test_handout.html" target="_blank">handout</a></td>
 </tr>
-<tr class="even">
+<tr class="odd">
 <td align="left">2020-09-10</td>
 <td align="left">Null Hypothesis Testing</td>
 <td align="left"><a href="https://shklinkenberg.github.io/statistics-lectures/courses/2020-2021_SSR//nhst/nhst_reveal.html" target="_blank">slide</a></td>
 <td align="left"><a href="https://shklinkenberg.github.io/statistics-lectures/courses/2020-2021_SSR//nhst/nhst_handout.html" target="_blank">handout</a></td>
 </tr>
-<tr class="odd">
+<tr class="even">
 <td align="left">2020-09-03</td>
 <td align="left">Statistical Reasoning Null Hypothesis Testisn</td>
 <td align="left"><a href="https://shklinkenberg.github.io/statistics-lectures/courses/2020-2021_SSR//reasoning_nhst/reasoning_empirical_cycle_nhst_reveal.html" target="_blank">slide</a></td>
 <td align="left"><a href="https://shklinkenberg.github.io/statistics-lectures/courses/2020-2021_SSR//reasoning_nhst/reasoning_empirical_cycle_nhst_handout.html" target="_blank">handout</a></td>
-</tr>
-<tr class="even">
-<td align="left">2019-10-03</td>
-<td align="left">Non-parametric tests</td>
-<td align="left"><a href="https://shklinkenberg.github.io/statistics-lectures/courses/2020-2021_SSR//non_parametric_tests/non_parametric_tests_reveal.html" target="_blank">slide</a></td>
-<td align="left"><a href="https://shklinkenberg.github.io/statistics-lectures/courses/2020-2021_SSR//non_parametric_tests/non_parametric_tests_handout.html" target="_blank">handout</a></td>
 </tr>
 </tbody>
 </table>
